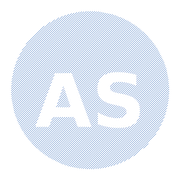
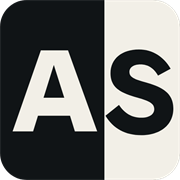
flavicon redesign

diff --git a/layouts/partials/favicons.html b/layouts/partials/favicons.html
@@ -1,0 +1,6 @@
+<link rel="icon" href="{{ "favicon.ico" | relURL }}" sizes="any">
+<link rel="icon" type="image/svg+xml" href="{{ "favicon.svg" | relURL }}">
+<link rel="icon" type="image/png" sizes="32x32" href="{{ "favicon-32x32.png" | relURL }}">
+<link rel="icon" type="image/png" sizes="16x16" href="{{ "favicon-16x16.png" | relURL }}">
+<link rel="apple-touch-icon" sizes="180x180" href="{{ "apple-touch-icon.png" | relURL }}">
+<link rel="manifest" href="{{ "site.webmanifest" | relURL }}">
